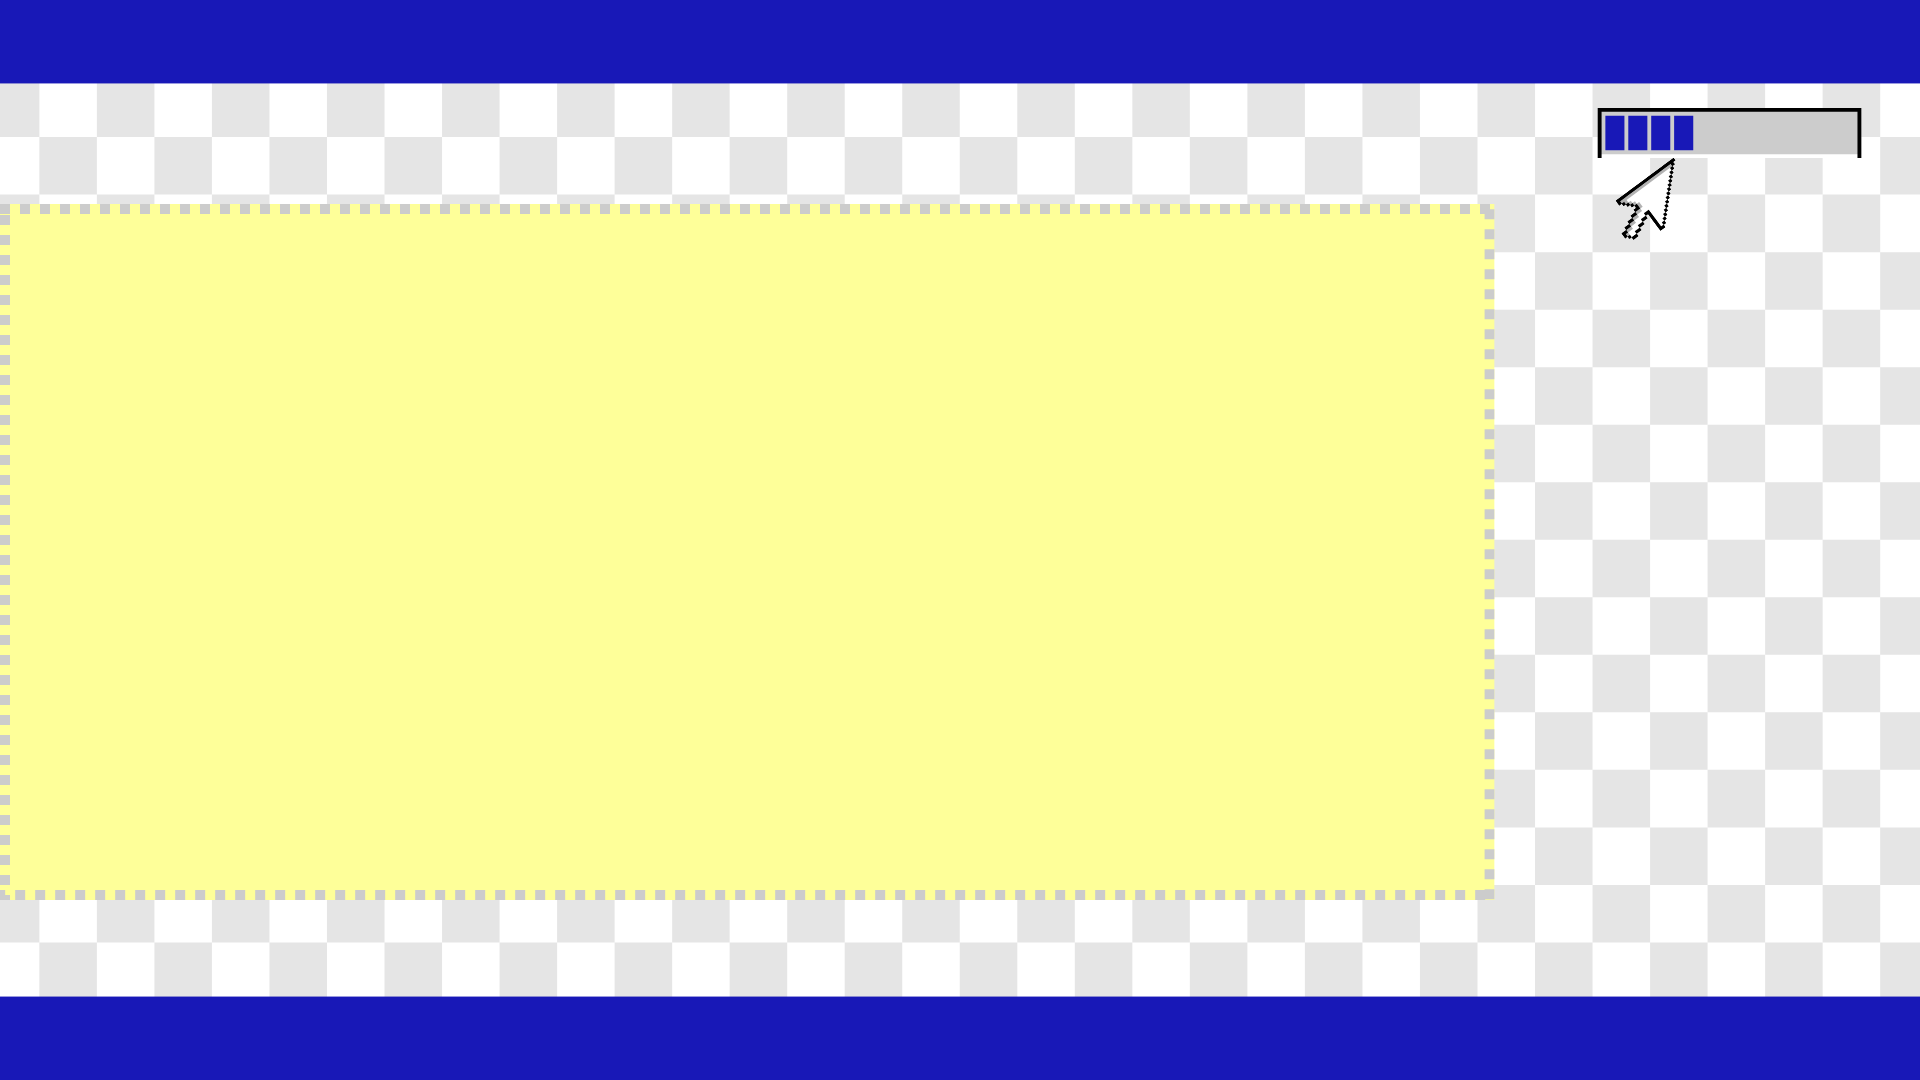
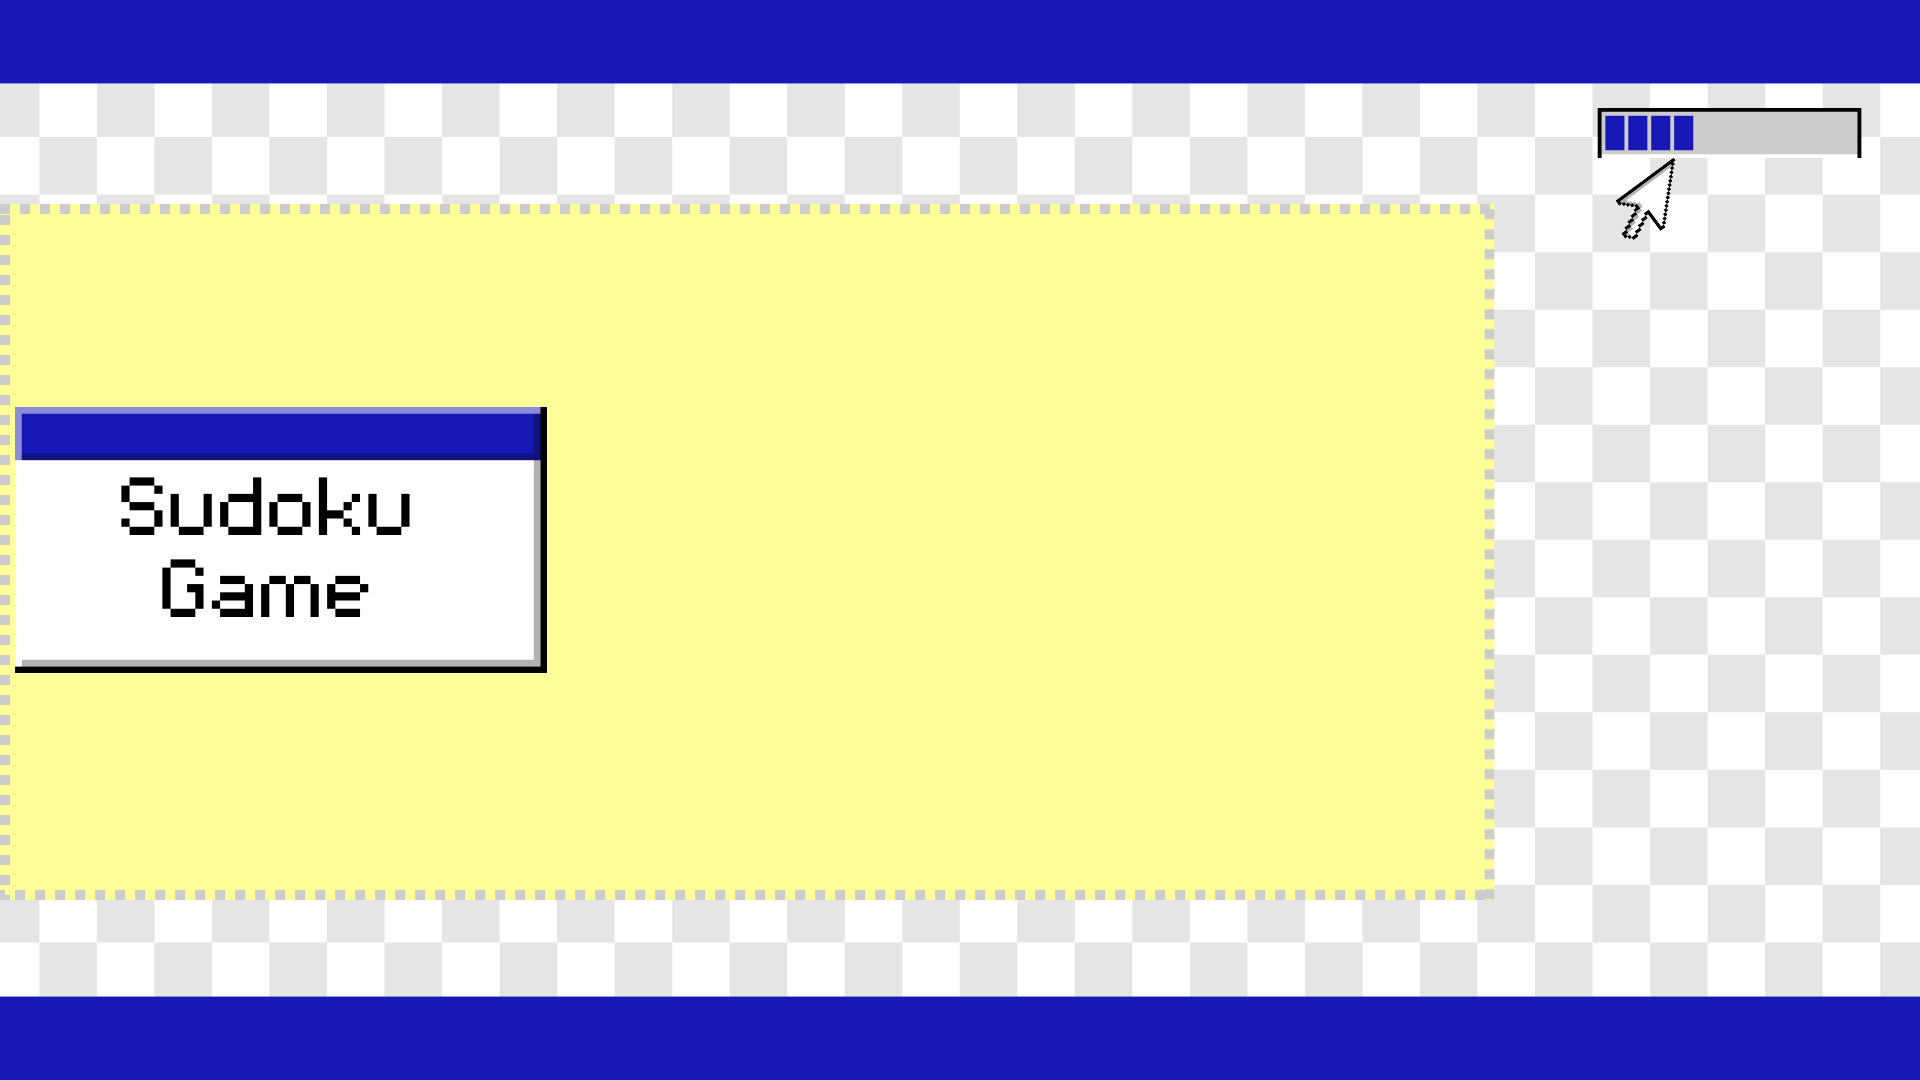
menu button added

Changed region(s): [[0.0, 0.3667, 0.3125, 0.6417]]

diff --git a/src/main/java/com/example/miniproyect2/controller/GameController.java b/src/main/java/com/example/miniproyect2/controller/GameController.java
@@ -1,10 +1,14 @@
 package com.example.miniproyect2.controller;
 
 import com.example.miniproyect2.model.Game;
+import com.example.miniproyect2.view.WelcomeStage;
 import javafx.fxml.FXML;
 import javafx.scene.control.TextField;
 import javafx.scene.control.TextFormatter;
 import javafx.scene.layout.GridPane;
+import com.example.miniproyect2.view.GameStage;
+import java.awt.event.ActionEvent;
+import java.io.IOException;
 
 import static com.example.miniproyect2.controller.ErrorDisplay.showError;
 
@@ -76,6 +80,11 @@ public class GameController {
             }
         }
     }
+    @FXML
+    void handleBack(javafx.event.ActionEvent actionEvent) throws IOException {
+        WelcomeStage.getInstance();
+        GameStage.deleteInstance();
+    }
     private void singleDigitTxt(TextField txt) {
         txt.setTextFormatter(new TextFormatter<String>(change -> {
             if (change.getControlNewText().length() > 1) {
@@ -85,3 +94,4 @@ public class GameController {
         }));
     }
 }
+

diff --git a/src/main/java/module-info.java b/src/main/java/module-info.java
@@ -1,6 +1,7 @@
 module com.example.miniproyect2 {
     requires javafx.controls;
     requires javafx.fxml;
+    requires java.desktop;
 
 
     opens com.example.miniproyect2.controller to javafx.fxml;
